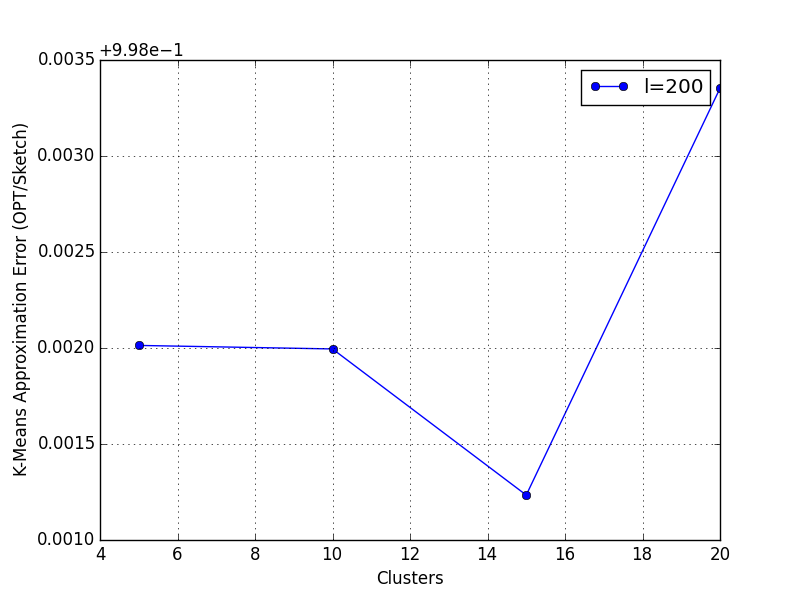
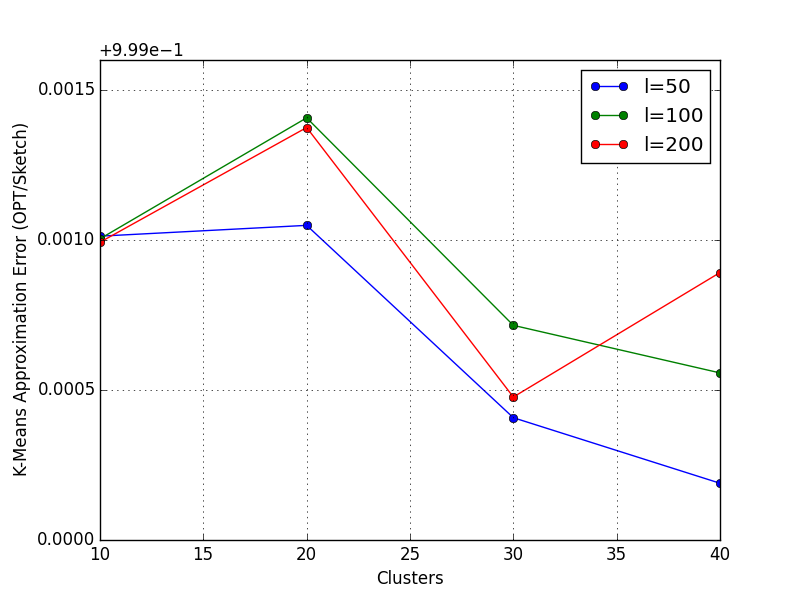
km

diff --git a/plot_experiments.py b/plot_experiments.py
@@ -362,7 +362,8 @@ def plot_kmeans(sketch_results_fname='experiments/kmeans/cifar/sketch_results.p'
         results['opt'] = pickle.load(f)['opt']
     print results['sketch'][100].keys()
 
-    clusters = [5, 10, 15, 20]
+    #clusters = [5, 10, 15, 20]
+    clusters = [10, 20, 30, 40]
     sketch_sizes = [50, 100, 200]
     opt_data = []
     sketch_data = [[] for i in range(len(sketch_sizes))]
@@ -373,7 +374,7 @@ def plot_kmeans(sketch_results_fname='experiments/kmeans/cifar/sketch_results.p'
             l = sketch_sizes[i]
             sketch_data[i].append((results['sketch'][l][k]['time'], results['sketch'][l][k]['cost']))
     opt_times, opt_costs = zip(*opt_data)
-    sketch_times, sketch_costs = []
+    sketch_times, sketch_costs = [], []
     for i in range(len(sketch_sizes)):
         sketch_times_i, sketch_costs_i = zip(*sketch_data[i])
         sketch_times.append(sketch_times_i)

diff --git a/cluster.py b/cluster.py
@@ -30,9 +30,12 @@ def cluster_kmeans(mat, k=None):
 	mat_centroids, mat_labels = kmeans(mat, k)
 	return mat_centroids, mat_labels 
 
-def train_kmeans(mat, k, num_processes=1):
-	model = KMeans(n_clusters=k, n_jobs=num_processes)
-        model.fit(mat)
+def train_kmeans(mat, k, init_centers=None, num_processes=1):
+	if init_centers is None:
+		model = KMeans(n_clusters=k, n_jobs=num_processes)
+	else:
+		model = Kmeans(n_clusters=k, init=init_centers, n_jobs=num_processes)
+    model.fit(mat)
 	# get the objective function and the labels! 
 	cost = kmeans_objective(mat, model.cluster_centers_, model.labels_)
 	return cost, model.cluster_centers_, model.labels_

diff --git a/experiments.py b/experiments.py
@@ -565,7 +565,8 @@ def kmeans_experiment(on_sketch=True, on_orig=True):
     #print sketche.shape
     print "Mat: ", mat.shape
     #sketch = load_matrix("sketches/w2vec_250.txt")
-    clusters = [10, 20, 30, 40]
+    clusters = [2, 4, 8, 16, 32]
+    #clusters = [10, 20, 30, 40]
     num_processes = 8
     results = {'opt': {}, 'sketch': {}}
     for l in sketch_sizes:
